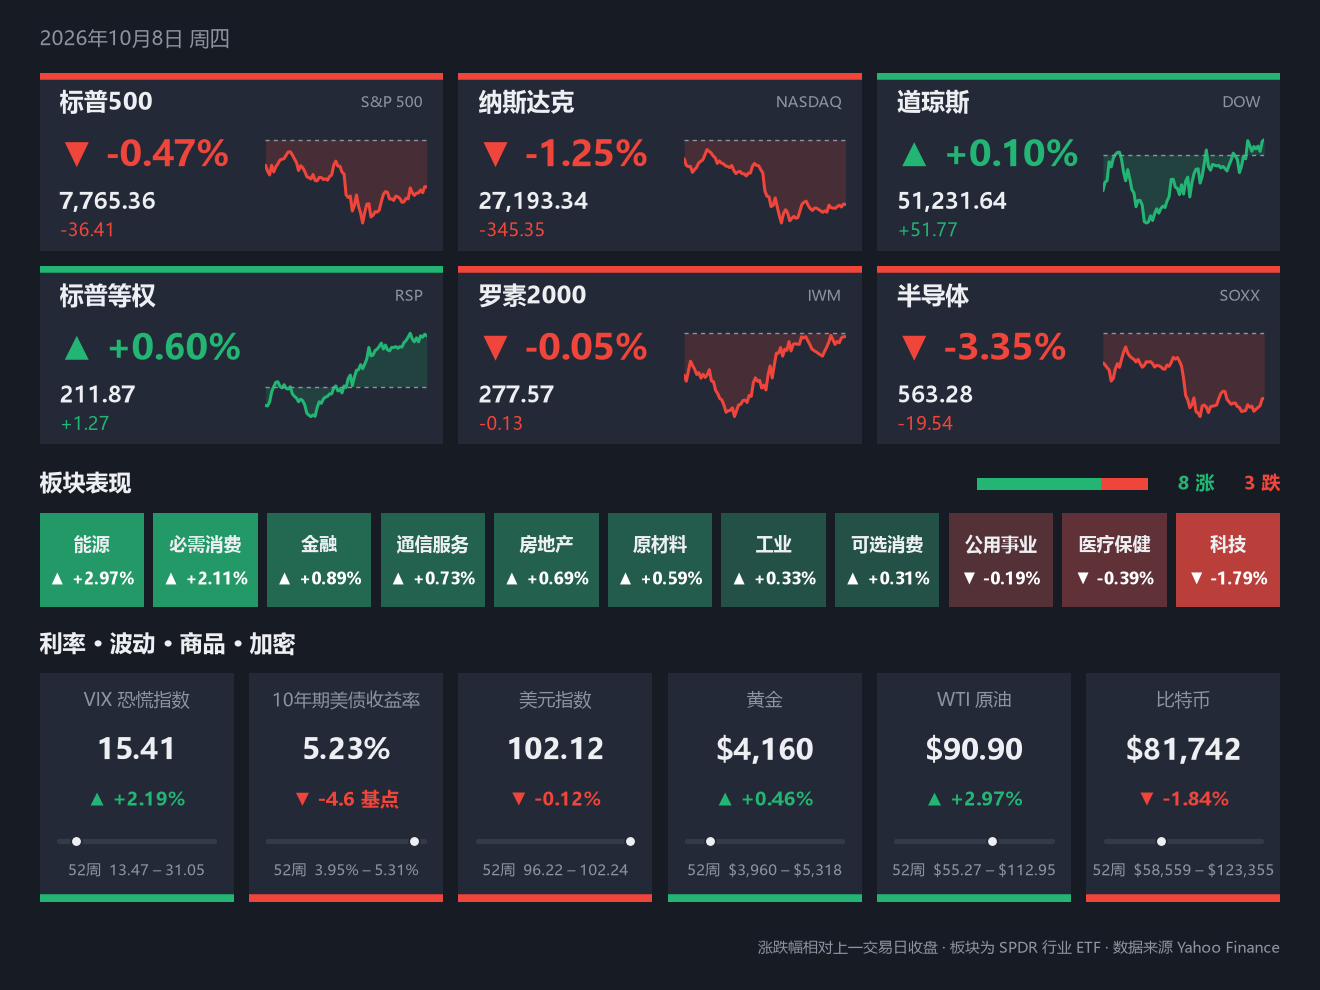
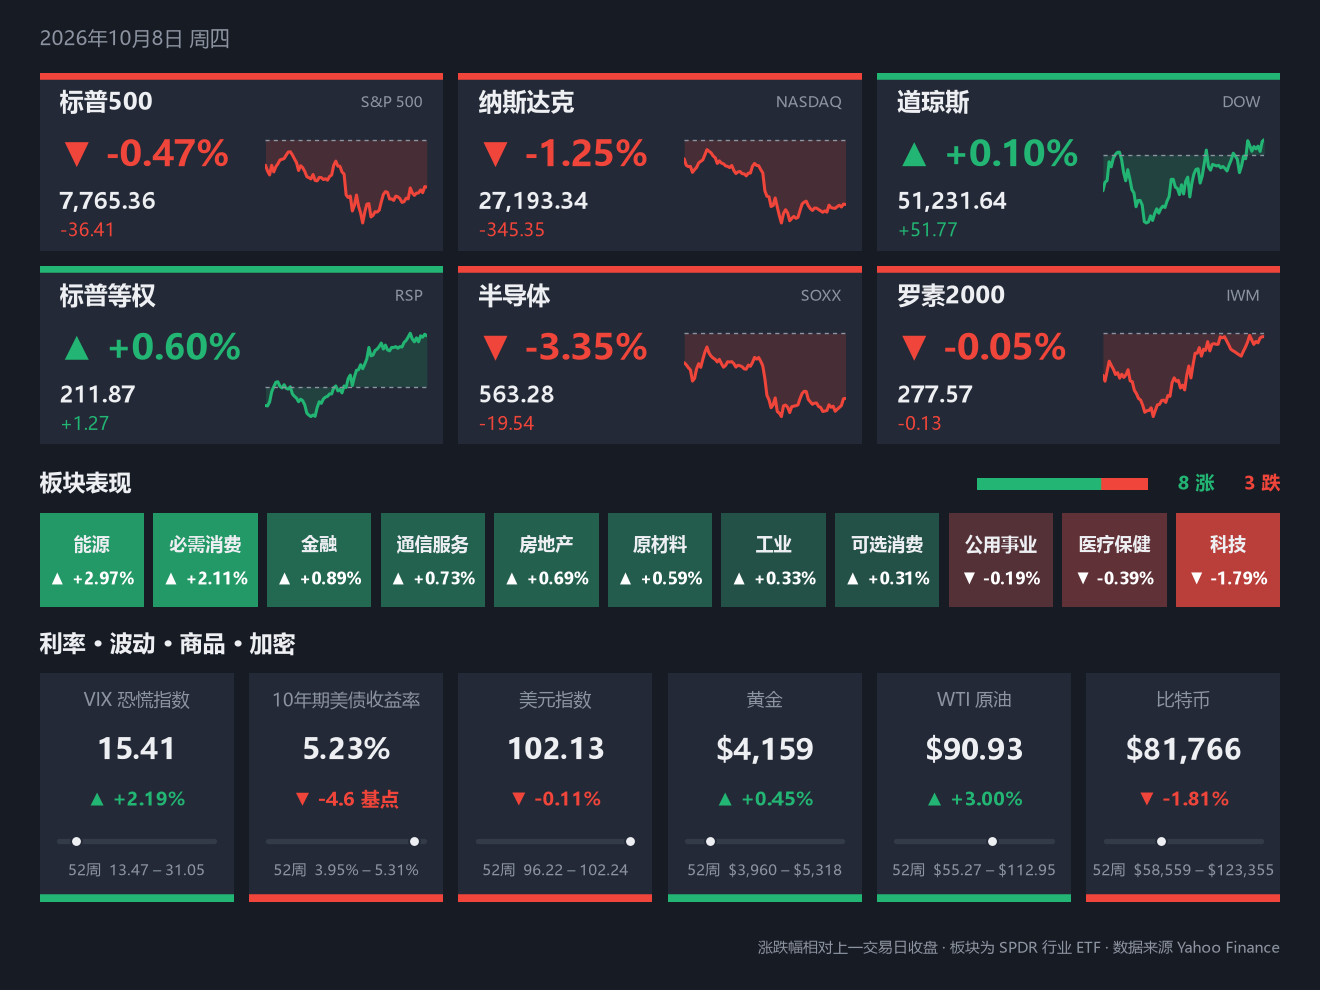
Market summary: put semiconductors under the Nasdaq and small caps under the Dow

diff --git a/market_pulse/market_close.py b/market_pulse/market_close.py
@@ -52,14 +52,17 @@ OUTPUT_FILE = Path("market_close.png")
 # after the close today's bar is ~8 hours old and the previous session's is 32+.
 MAX_BAR_AGE_SECONDS = 20 * 3600
 
-# (symbol, Chinese name, ticker shown on the tile)
+# (symbol, Chinese name, ticker shown on the tile). Drawn three to a row, so
+# each ETF in the second row sits under the index it is read against:
+# equal weight under the S&P 500, semiconductors under the Nasdaq, small
+# caps under the Dow.
 INDICES = [
     ("^GSPC", "标普500", "S&P 500"),
     ("^IXIC", "纳斯达克", "NASDAQ"),
     ("^DJI", "道琼斯", "DOW"),
     ("RSP", "标普等权", "RSP"),
-    ("IWM", "罗素2000", "IWM"),
     ("SOXX", "半导体", "SOXX"),
+    ("IWM", "罗素2000", "IWM"),
 ]
 
 # Sectors are tracked through the Select Sector SPDR ETFs.

diff --git a/tests/test_market_close.py b/tests/test_market_close.py
@@ -126,7 +126,7 @@ class FormattingTest(unittest.TestCase):
     def test_symbol_lists(self):
         self.assertEqual(len(mc.ALL_SYMBOLS), len(set(mc.ALL_SYMBOLS)))
         self.assertEqual(len(mc.ALL_SYMBOLS), 23)
-        self.assertEqual(mc.INTRADAY_SYMBOLS, ["^GSPC", "^IXIC", "^DJI", "RSP", "IWM", "SOXX"])
+        self.assertEqual(mc.INTRADAY_SYMBOLS, ["^GSPC", "^IXIC", "^DJI", "RSP", "SOXX", "IWM"])
         self.assertEqual(mc.RANGE_SYMBOLS, ["^VIX", "^TNX", "DX-Y.NYB", "GC=F", "CL=F", "BTC-USD"])
 
 

diff --git a/README.md b/README.md
@@ -223,7 +223,7 @@ Only `truth_social` uses `hashes` and `etag`. `seen_feargreed.json` instead stor
 
 - Triggered at 4:15 pm New York time on weekdays, right after the close. The scheduler job is defined in the `America/New_York` time zone, so the time stays correct across daylight saving changes.
 - Written for a Chinese-language channel: the image is labelled in Chinese and the message text is just the session date. Colours follow the US convention of green for up and red for down (`RED_UP` in the module flips it to the mainland Chinese convention). Every number also carries an arrow and a sign.
-- Six wide index tiles in two rows (S&P 500, Nasdaq, Dow, then RSP for the equal-weight S&P 500, IWM for small caps and SOXX for semiconductors) show the move, the close and the session's intraday path against the previous close.
+- Six wide index tiles in two rows (S&P 500, Nasdaq and Dow, and beneath each the ETF it is read against: RSP for the equal-weight S&P 500, SOXX for semiconductors, IWM for small caps) show the move, the close and the session's intraday path against the previous close.
 - Sectors are tracked through the Select Sector SPDR ETFs and drawn as a single row of heat tiles, strongest first, with colour depth proportional to the move. The count of sectors up and down sits on the section's title line.
 - A row of macro tiles covers the VIX, the 10-year yield (move in basis points), the dollar index, gold, oil and bitcoin. Each tile also shows the 52-week low and high of its daily closes, with a marker for where the latest close sits between them.
 - Daily closes for all 23 symbols come from Yahoo Finance's chart endpoint in batches of 10; each move is the last daily close against the one before it.
